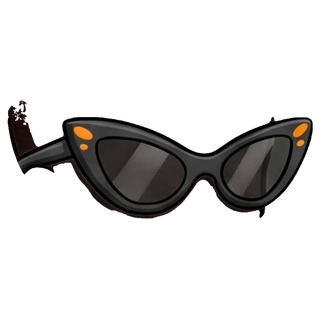
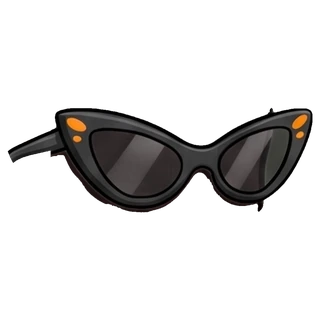
ROOMS: oc head 3/3 (less the smear): oc_goggle Clear Wrap Goggles (clear lens, glossy charcoal frame and strap, cadmium flecks; back layer is the strap) and oc_dots Indigo Dot Marks (mask: three glossy indigo dots under each eye; oc.md line matched). QA FIX oc_cat: the ragged template-outline blob a

Changed region(s): [[0.0, 0.3125, 1.0, 0.6875]]

diff --git a/shots/pending_art/cal_1125_brands/oc.md b/shots/pending_art/cal_1125_brands/oc.md
@@ -26,7 +26,7 @@ shoes 2 (boot, derby). New below: hat 7, head 8, neck 8, top 5, bottom 5, shoes 
 | head (glasses) | oc_tint | Indigo Tints | Small oval tints in deep indigo, thin copper wire frame. |
 | head (glasses) | oc_goggle | Clear Wrap Goggles | Clear wrap goggles, charcoal band, cadmium splatter on the rims. |
 | head (mask) | oc_smear | Cheek Paint Smear | A single cadmium brush swipe across one cheek and the nose bridge. |
-| head (mask) | oc_dots | Indigo Dot Marks | A row of indigo paint dots under each eye. |
+| head (mask) | oc_dots | Indigo Dot Marks | Three glossy indigo paint dots under each eye along the cheekbone, smaller toward the outer corner. |
 | head (glasses) | oc_cat | Charcoal Cat-Eyes | Sharp charcoal cat-eye frames, a cadmium fleck on each wing. |
 | neck | oc_chain | Copper Curb Chain | Chunky copper curb chain, a small enamel drip charm. |
 | neck | oc_bandana | Splatter Neck Bandana | Cream bandana knotted at the neck, indigo and cadmium splatter. |
